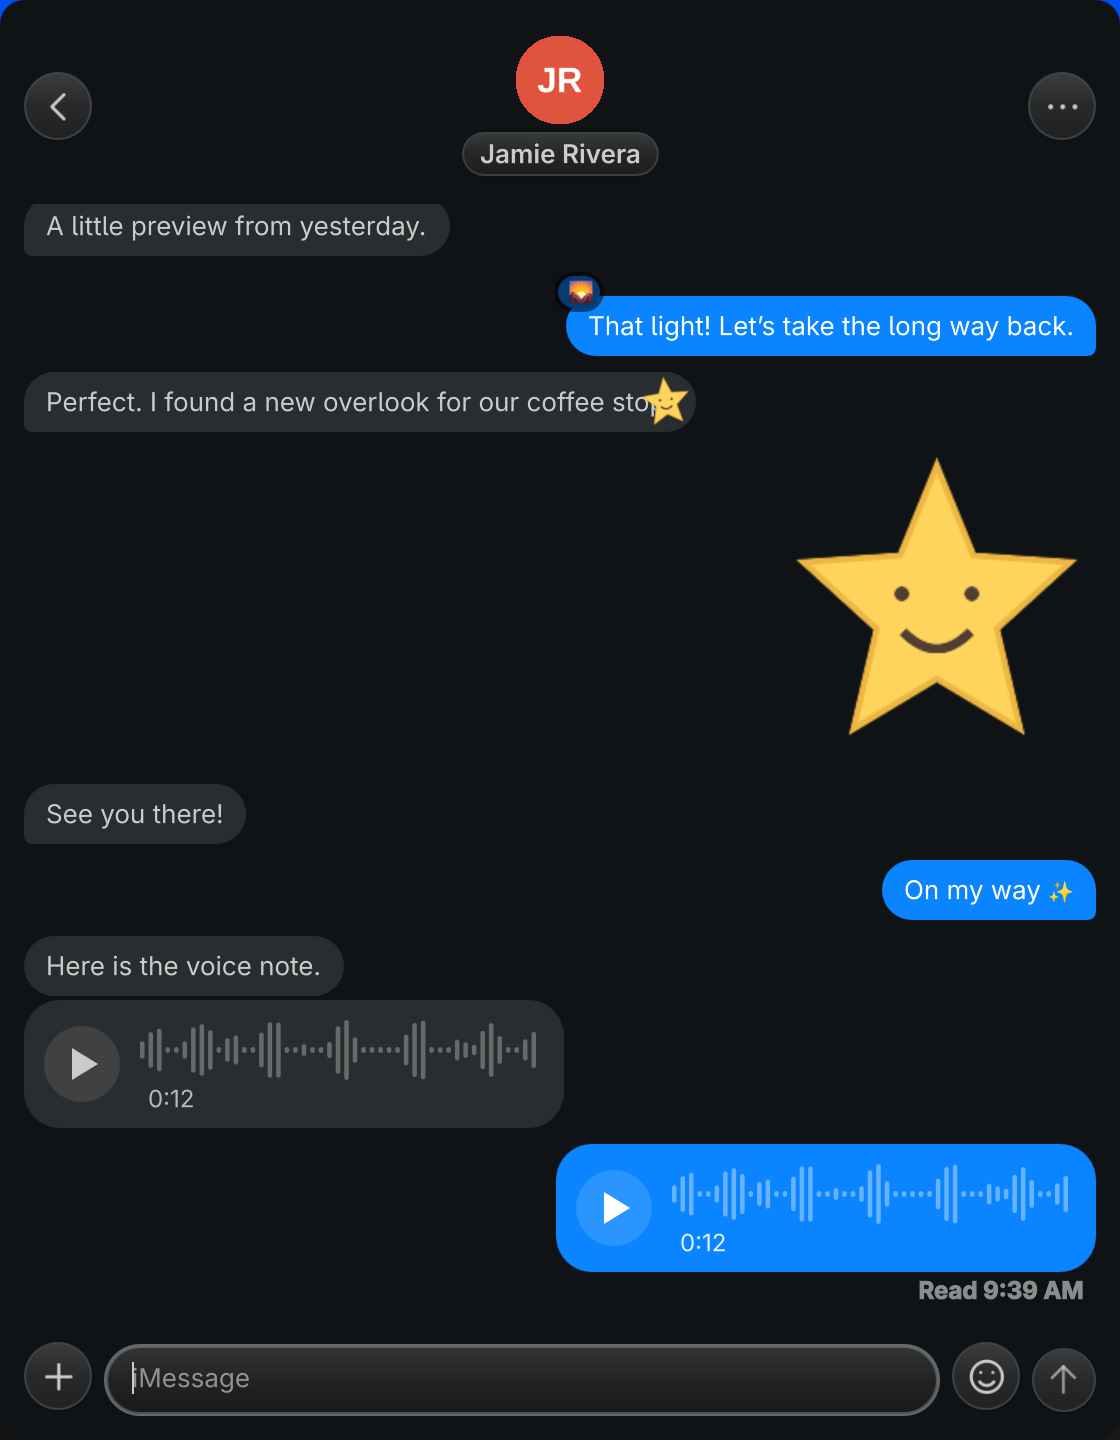
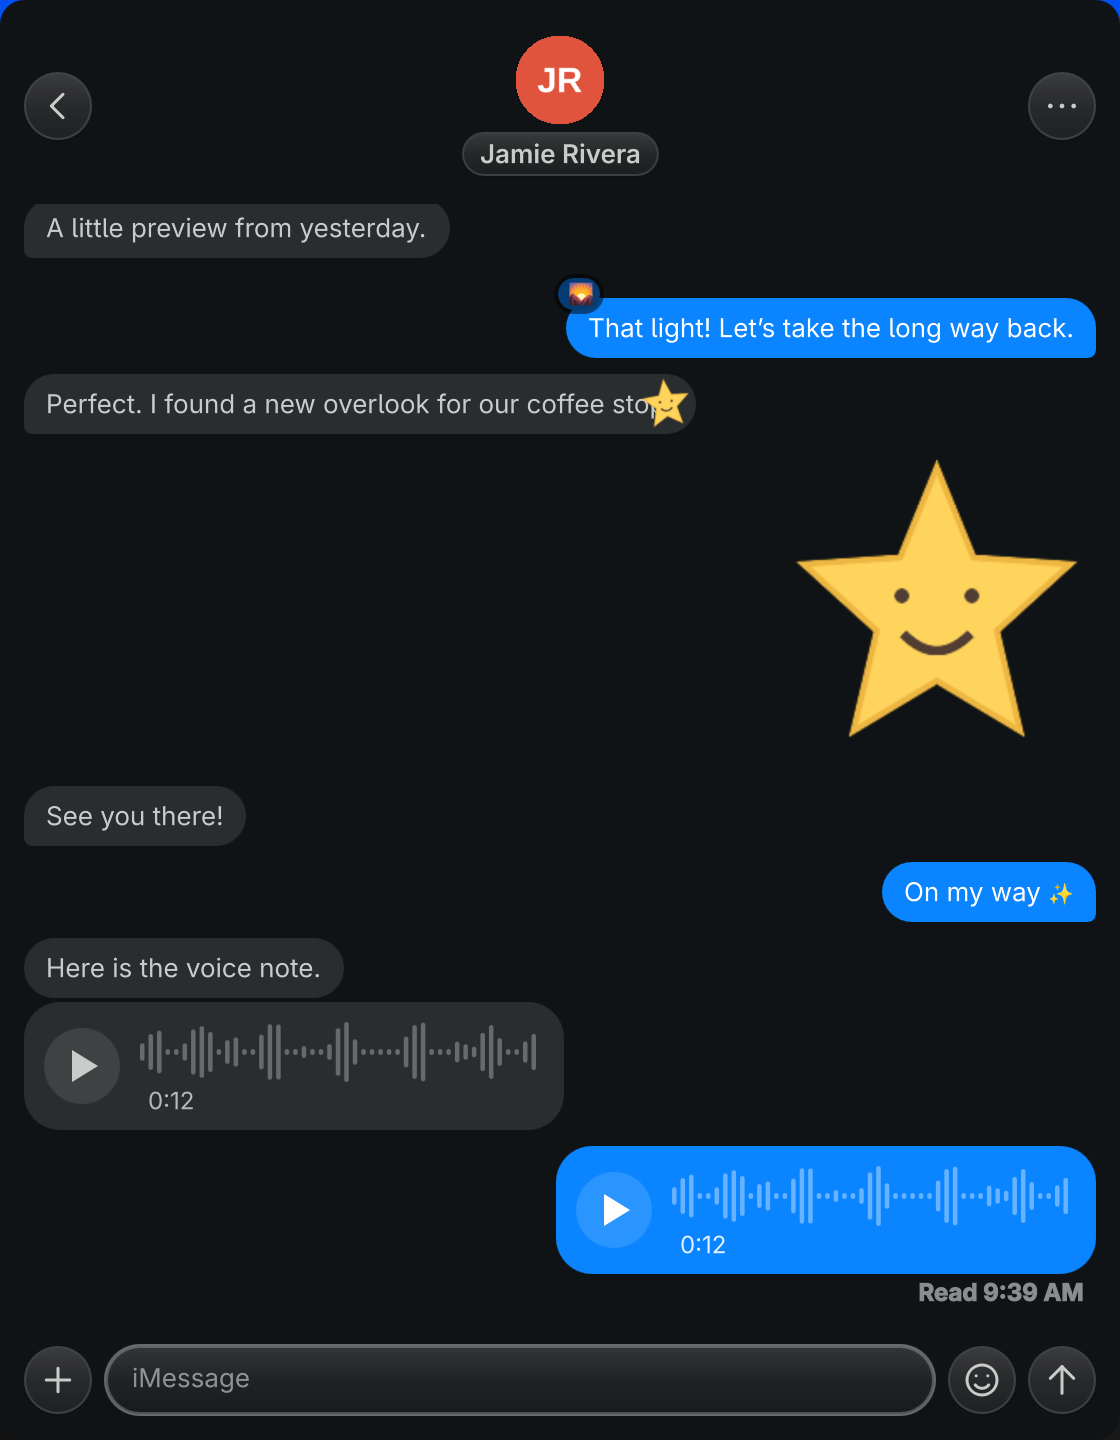
Move New Message into the conversation header and align composer controls

diff --git a/BlipView.qml b/BlipView.qml
@@ -84,7 +84,7 @@ FocusScope {
   /** An editor owns the keyboard — the host's key catcher must stand down. */
   readonly property bool editorActive:
     messageMenu.visible || emojiPopup.visible || contactMenu.visible || contactReview.opened || composeField.activeFocus || searchField.activeFocus || newField.activeFocus || bubbleFocused || focusedAudio !== null || actionFocused
-  readonly property bool actionFocused: markAllBtn.activeFocus || newMessageButton.activeFocus || appWindowButton.activeFocus
+  readonly property bool actionFocused: newMessageButton.activeFocus || compactNewMessageButton.activeFocus || appWindowButton.activeFocus
     || backButton.activeFocus || conversationActions.activeFocus || attachmentButton.activeFocus || emojiButton.activeFocus || sendButton.activeFocus
   property var focusedAudio: null
   readonly property alias composeEditor: composeField
@@ -2589,21 +2589,11 @@ FocusScope {
           Layout.preferredHeight: Style.space(32)
           spacing: Style.space(8)
           Item { Layout.fillWidth: true }
+          // A single-pane popout keeps its compose action beside Open App.
+          // The app's compose action lives across the divider in its header.
           ComposerButton {
-            id: markAllBtn
-            visible: root.canMarkAllRead
-            iconName: "check"
-            tooltipText: "Mark all conversations read"
-            Accessible.name: "Mark all conversations read"
-            foreground: root.foreground
-            accent: root.accent
-            motionDuration: Style.duration(120)
-            font.family: root.fontFamily
-            onClicked: root.markAllRead()
-          }
-          ComposerButton {
-            id: newMessageButton
-            visible: root.online && !root.newMode
+            id: compactNewMessageButton
+            visible: !root.splitView && root.online && !root.newMode
             iconName: "compose"
             tooltipText: "New message (n)"
             Accessible.name: "New message"
@@ -3344,6 +3334,21 @@ FocusScope {
         Item {
           Layout.fillWidth: true
           Layout.preferredHeight: root.inThread ? Style.space(82) : Style.space(50)
+          ComposerButton {
+            id: newMessageButton
+            visible: root.splitView && root.online && !root.newMode
+            anchors.left: parent.left
+            anchors.top: parent.top
+            iconName: "compose"
+            fill: root.backgroundUrl !== "" ? Qt.alpha(appearance.background, 0.76) : Qt.alpha(root.foreground, 0.10)
+            tooltipText: "New message (n)"
+            Accessible.name: "New message"
+            foreground: root.foreground
+            accent: root.accent
+            motionDuration: Style.duration(120)
+            font.family: root.fontFamily
+            onClicked: root.startNew()
+          }
           ComposerButton {
             id: backButton
             visible: root.inThread && !root.splitView
@@ -4284,7 +4289,7 @@ FocusScope {
           ComposerButton {
             id: attachmentButton
             Layout.alignment: Qt.AlignBottom
-            Layout.bottomMargin: Style.space(3)
+            Layout.bottomMargin: Style.space(1)
             implicitWidth: Style.space(34)
             iconName: "plus"
             motionDuration: Style.duration(120)
@@ -4472,7 +4477,7 @@ FocusScope {
           ComposerButton {
             id: emojiButton
             Layout.alignment: Qt.AlignBottom
-            Layout.bottomMargin: Style.space(3)
+            Layout.bottomMargin: Style.space(1)
             implicitWidth: Style.space(34)
             iconName: "emoji"
             motionDuration: Style.duration(120)
@@ -4489,12 +4494,13 @@ FocusScope {
 
           ComposerButton {
             id: sendButton
-            Layout.alignment: Qt.AlignVCenter
+            Layout.alignment: Qt.AlignBottom
+            Layout.bottomMargin: Style.space(1)
             readonly property bool armed: composeField.text.trim() !== "" || root.attachCount > 0
-            implicitWidth: Style.space(32)
+            implicitWidth: Style.space(34)
             iconName: "send"
             tooltipText: "Send message"
-            foreground: armed ? "#ffffff" : root.canvasDim
+            foreground: armed ? "#ffffff" : root.foreground
             fill: armed ? root.mineFill : root.backgroundUrl !== "" ? Qt.alpha(appearance.background, 0.76) : Qt.alpha(root.foreground, 0.10)
             accent: root.accent
             motionDuration: Style.duration(120)

diff --git a/ui.test.ts b/ui.test.ts
@@ -1230,17 +1230,38 @@ test("a toast click strips the + and falls back to open()", () => {
 describe("mark all read is not gated on Blip's own unread count", () => {
   const view = readFileSync(new URL("./BlipView.qml", import.meta.url), "utf8");
 
-  test("the function and toolbar button share one gate that only push_read=off closes", () => {
+  test("the retained keyboard action respects the push-read gate without a toolbar button", () => {
     expect(view).toMatch(/readonly property bool canMarkAllRead: root\.online && \(root\.unread > 0 \|\| !hostWidget \|\| hostWidget\.readPush !== "off"\)/);
     expect(view).toMatch(/function markAllRead\(\) \{\s*if \(!root\.hostWidget \|\| !root\.canMarkAllRead\) return/);
-    expect(view).toMatch(/id: markAllBtn\s*visible: root\.canMarkAllRead/);
-    const button = view.slice(view.indexOf("id: markAllBtn"), view.indexOf("id: markAllBtn") + 450);
-    expect(button).toContain("onClicked: root.markAllRead()");
-    expect(button).toContain('Accessible.name: "Mark all conversations read"');
+    expect(view).toContain('if (text === "a" || text === "A") { markAllRead(); return true }');
+    expect(view).not.toContain("id: markAllBtn");
   });
 
   test("nothing in the view still short-circuits mark-all on a zero count", () => {
     expect(view).not.toMatch(/markAllRead\(\) \{[^}]*root\.unread === 0/);
     expect(view).not.toMatch(/id: markAllBtn\s*visible: root\.unread > 0/);
   });
+});
+
+test("New Message sits across the sidebar divider with a compact popout fallback", () => {
+  const action = panel.indexOf("id: newMessageButton");
+  expect(action).toBeGreaterThan(panel.indexOf("id: conversationPane"));
+  const headerAction = panel.slice(action, panel.indexOf("onClicked: root.startNew()", action));
+  expect(headerAction).toContain("visible: root.splitView && root.online && !root.newMode");
+  expect(headerAction).toContain("anchors.left: parent.left");
+  expect(headerAction).toContain("anchors.top: parent.top");
+  const compact = panel.indexOf("id: compactNewMessageButton");
+  expect(compact).toBeLessThan(panel.indexOf("id: conversationPane"));
+  expect(panel.slice(compact, compact + 200)).toContain("visible: !root.splitView && root.online && !root.newMode");
+  expect(panel).toContain("newMessageButton.activeFocus || compactNewMessageButton.activeFocus");
+});
+
+test("composer emoji and send controls share size and bottom alignment", () => {
+  for (const id of ["attachmentButton", "emojiButton", "sendButton"]) {
+    const start = panel.indexOf("id: " + id);
+    const button = panel.slice(start, panel.indexOf("onClicked:", start));
+    expect(button).toContain("Layout.alignment: Qt.AlignBottom");
+    expect(button).toContain("Layout.bottomMargin: Style.space(1)");
+    expect(button).toContain("implicitWidth: Style.space(34)");
+  }
 });

diff --git a/ComposerButton.qml b/ComposerButton.qml
@@ -29,7 +29,7 @@ AbstractButton {
   contentItem: Item {
     LineIcon {
       anchors.centerIn: parent
-      width: Math.min(22, root.width * 0.60); height: width
+      width: Math.round(Math.min(22, root.width * 0.60)); height: width
       visible: root.iconName !== ""
       name: root.iconName
       color: root.foreground

diff --git a/docs/APPEARANCE.md b/docs/APPEARANCE.md
@@ -8,6 +8,10 @@ Favorites use equal-width tiles and short personal names; matching first names
 include a surname initial. Group names and the full conversation header stay
 intact.
 
+**New Message** sits at the upper-left of the conversation pane, just across
+the sidebar divider. In the compact popout it remains at the top-right of the
+conversation list. The `n` shortcut remains available.
+
 Click **+** beside the composer to select up to ten local files. They remain
 queued attachments until you send. Click the **smiley** for searchable emoji;
 choosing one inserts it at the draft's cursor or replaces selected text, without sending. The blue arrow
